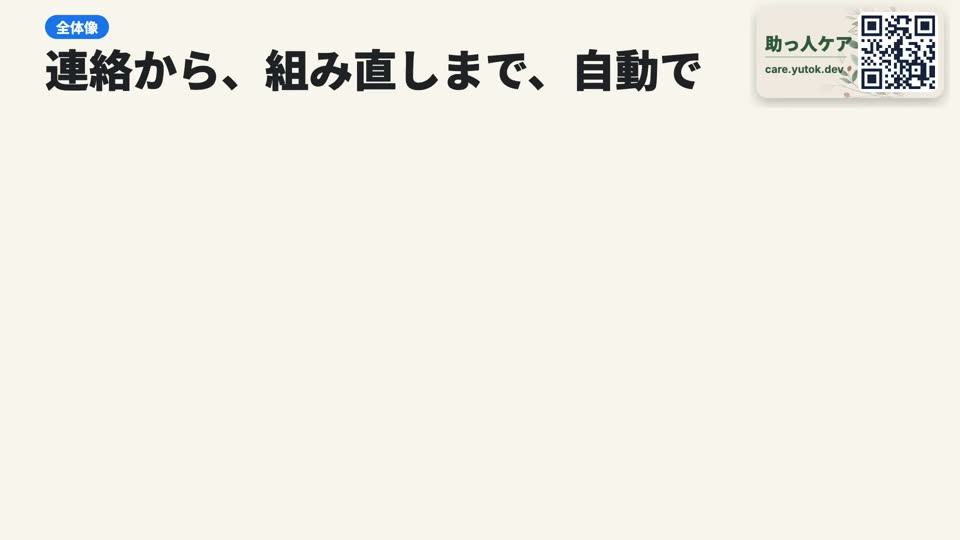
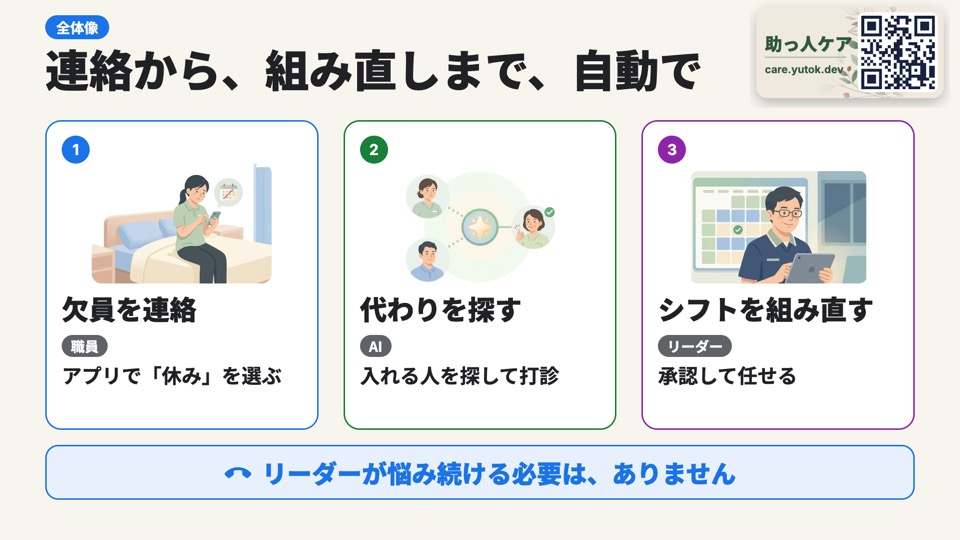
feat(sukettocare): 6枚目をクリックで段階表示に、19枚目に質疑スライド（主要6枚の PNG から飛んで ← で戻る）、20枚目に運用・監視、21枚目に詳しい構成図。15枚目から運用・監視を外す

diff --git a/sukettocare/index.html b/sukettocare/index.html
@@ -16,6 +16,15 @@
     opacity:0; transition:opacity .25s ease; background:#F7F5EE; pointer-events:none; }
   #stage .sl.on { opacity:1; }
   #stage .zoomwrap { overflow:hidden; background:#fff; }
+  #stage .hub { background:#F7F5EE; color:#202124; padding:80px 60px; }
+  #stage .hub.on { pointer-events:auto; cursor:default; }
+  #stage .hh { font-size:28px; color:#5F6368; margin-bottom:26px; }
+  #stage .hh span { display:inline-block; font-size:64px; font-weight:900; color:#202124; margin-right:28px; vertical-align:middle; }
+  #stage .hg { display:grid; grid-template-columns:repeat(4, 1fr); gap:56px 30px; margin-top:40px; }
+  #stage .hc { border:4px solid #DADCE0; border-radius:18px; background:#fff; padding:10px; cursor:pointer; font:inherit; text-align:left; transition:border-color .2s, transform .2s; }
+  #stage .hc:hover { border-color:#1A73E8; transform:translateY(-3px); }
+  #stage .hc img { display:block; width:100%; aspect-ratio:16/9; object-fit:cover; border-radius:10px; }
+  #stage .hc span { display:block; font-size:24px; font-weight:700; margin:10px 4px 4px; color:#202124; }
   #stage .zoomwrap img { position:absolute; left:0; top:0; width:100%; height:100%; object-fit:contain;
     transition:transform .35s ease; transform-origin:50% 50%; }
   #stage .zoomwrap.on { pointer-events:auto; cursor:zoom-in; }
@@ -84,6 +93,11 @@ const els = D.map((s) => {
   let el;
   if (kind(s) === 'html') {
     el = document.createElement('iframe'); el.src = s.src; el.setAttribute('scrolling', 'no'); el.tabIndex = -1;
+  } else if (kind(s) === 'hub') {
+    el = document.createElement('div'); el.className = 'hub';
+    el.innerHTML = `<div class="hh"><span>質疑対応</span>画像を押すとそのページへ。そこで ← を押すとここに戻ります。</div><div class="hg">` +
+      s.links.map((L, k) => `<button class="hc" data-k="${k}"><img src="${L.img}" alt=""><span>${L.label}</span></button>`).join('') + '</div>';
+    el.querySelectorAll('.hc').forEach((b) => b.addEventListener('click', (e) => { e.stopPropagation(); jump(+b.dataset.k); }));
   } else if (kind(s) === 'image') {
     el = document.createElement('div'); el.className = 'zoomwrap';
     el.innerHTML = `<span class="tag">予備</span><img src="${s.src}" alt="${s.title}">`;
@@ -96,7 +110,14 @@ const els = D.map((s) => {
   el.classList.add('sl'); stage.insertBefore(el, document.getElementById('black')); return el;
 });
 const vids = els; // 互換のため
-let i = 0, step = 0, startedAt = null, slideAt = null, presenter = null;
+let i = 0, step = 0, startedAt = null, slideAt = null, presenter = null, jumpFrom = null;
+const idx = (id) => D.findIndex((x) => x.id === id);
+// 質疑スライドから飛ぶ: 段階表示のページは最後（または指定）の段で、映像は最後の場面で止めて見せる
+function jump(k) {
+  const hub = i, L = D[hub].links[k], n = idx(L.id); if (n < 0) return;
+  show(n, false, true, L.step, true); jumpFrom = hub;
+  if (kind(D[n]) === 'video') { const v = els[n]; v.pause(); const end = () => { if (isFinite(v.duration)) v.currentTime = Math.max(0, v.duration - 0.3); }; if (v.readyState >= 1) end(); else v.addEventListener('loadedmetadata', end, { once: true }); }
+}
 function toggleZoom(el, e) {
   const img = el.querySelector('img');
   if (el.classList.toggle('zoomed')) {
@@ -126,14 +147,15 @@ function play(n) {
   v.playbackRate = D[n].rate;
 }
 const MAIN = D.filter((s) => !s.backup).length;
-function show(n, fromUser, atEnd) {
+function show(n, fromUser, atEnd, stepAt, noPlay) {
+  jumpFrom = null;
   n = Math.max(0, Math.min(D.length - 1, n));
   if (fromUser && startedAt === null && n > i) startTimer(false);
   els.forEach((v, k) => { if (k !== n) { v.classList.remove('on'); if (v.pause) v.pause(); } });
   const zw = els[n]; if (zw.classList.contains('zoomed')) toggleZoom(zw, null);
-  i = n; step = (atEnd && D[n].steps) ? D[n].lines.length - 1 : 0;
-  els[n].classList.add('on'); play(n); slideAt = Date.now();
-  document.getElementById('count').textContent = D[n].backup ? '予備' : (n + 1) + ' / ' + MAIN;
+  i = n; step = (atEnd && D[n].steps) ? (stepAt != null ? stepAt : D[n].lines.length - 1) : 0;
+  els[n].classList.add('on'); if (!noPlay || kind(D[n]) !== 'video') play(n); slideAt = Date.now();
+  document.getElementById('count').textContent = D[n].backup ? (kind(D[n]) === 'hub' ? '質疑' : '予備') : (n + 1) + ' / ' + MAIN;
   try { history.replaceState(null, '', '#' + (n + 1)); } catch (e) {}
   send();
 }
@@ -156,6 +178,7 @@ function act(k) {
       else show(i + 1, true);
       break;
     case 'prev':
+      if (jumpFrom !== null) { show(jumpFrom, false); break; }
       if (D[i].steps && step > 0) setStep(step - 1);
       else show(i - 1, true, true);
       break;
@@ -189,6 +212,7 @@ function onMsg(m, source) {
     lastPing = Date.now(); markConn(); if (m.type === 'hello') send();
   }
   if (m.type === 'act') act(m.act);
+  if (m.type === 'jump' && kind(D[i]) === 'hub') jump(m.k);
 }
 function markConn() {
   const c = document.getElementById('conn'); if (!c) return;

diff --git a/sukettocare/slides/ops.html b/sukettocare/slides/ops.html
@@ -1,0 +1,58 @@
+<!doctype html>
+<html lang="ja">
+<head>
+<meta charset="utf-8">
+<meta name="robots" content="noindex">
+<title>運用・監視</title>
+<link rel="stylesheet" href="ar-common.css">
+<style>
+  .eb { background:#5F6368; } .tt { font-size:76px; }
+  .col { position:absolute; top:250px; width:560px; height:600px; border:4px solid color-mix(in srgb, var(--c) 40%, #fff);
+    background:color-mix(in srgb, var(--c) 7%, #fff); border-radius:24px; padding:22px 24px; }
+  .col h2 { font-size:38px; font-weight:900; color:color-mix(in srgb, var(--c) 80%, #000); margin-bottom:4px; }
+  .col h2 small { font-size:22px; color:var(--mute); font-weight:700; margin-left:10px; }
+  .it { background:#fff; border:3px solid color-mix(in srgb, var(--c) 30%, #fff); border-radius:18px; padding:14px 18px; margin-top:16px; display:flex; gap:16px; align-items:flex-start; }
+  .it img { width:56px; height:56px; flex:none; }
+  .it b { display:block; font-size:28px; line-height:1.2; }
+  .it p { font-size:21px; line-height:1.45; color:var(--sub); margin-top:4px; }
+  .arrow { position:absolute; top:520px; font-size:56px; color:#3C4043; font-weight:900; }
+  .band { position:absolute; left:90px; top:880px; width:1740px; height:110px; border-radius:22px; background:#F1F3F4; border:4px solid #DADCE0;
+    display:flex; align-items:center; gap:28px; padding:0 28px; }
+  .band h3 { font-size:32px; font-weight:900; color:#3C4043; flex:none; }
+  .band div { font-size:23px; line-height:1.4; color:var(--sub); }
+  .band b { color:var(--ink); }
+</style>
+</head>
+<body>
+<div class="eb">予備</div>
+<div class="tt">運用・監視</div>
+<img class="badge" src="badge.png" alt="">
+
+<div class="col" style="--c:#1A73E8; left:90px">
+  <h2>作る<small>コードで管理</small></h2>
+  <div class="it"><img src="icons/iam.svg" alt=""><div><b>Terraform</b><p>インフラをコードで定義・適用<br>状態は Cloud Storage に保存</p></div></div>
+  <div class="it"><img src="icons/web.svg" alt=""><div><b>GitHub Actions</b><p>テスト → ビルド → デプロイ<br>WIF 連携で鍵ファイルなし</p></div></div>
+</div>
+
+
+<div class="col" style="--c:#188038; left:680px">
+  <h2>出す<small>確認してから公開</small></h2>
+  <div class="it"><img src="icons/run.svg" alt=""><div><b>Cloud Build</b><p>コンテナを作る</p></div></div>
+  <div class="it"><img src="icons/db.svg" alt=""><div><b>Artifact Registry</b><p>コンテナを保管</p></div></div>
+  <div class="it"><img src="icons/web.svg" alt=""><div><b>Cloud Run・Firebase Hosting</b><p>プレビューで確認してから公開</p></div></div>
+</div>
+<svg style="position:absolute;left:0;top:0;width:1920px;height:1080px;pointer-events:none"><polygon points="676,550 652,534 652,566" fill="#3C4043"/><polygon points="1266,550 1242,534 1242,566" fill="#3C4043"/></svg>
+
+<div class="col" style="--c:#E37400; left:1270px">
+  <h2>見守る<small>止まる前に気づく</small></h2>
+  <div class="it"><img src="icons/bq.svg" alt=""><div><b>Cloud Monitoring</b><p>稼働確認・稼働目標（可用性 99%）<br>アラート 10 種・ダッシュボード</p></div></div>
+  <div class="it"><img src="icons/tasks.svg" alt=""><div><b>Cloud Logging</b><p>ログ指標: ソルバーの混雑・AI の拒否・<br>個人情報マスクの失敗 など</p></div></div>
+  <div class="it"><img src="icons/vertex.svg" alt=""><div><b>AI の品質</b><p>別の Gemini が回答を採点して記録</p></div></div>
+</div>
+
+<div class="band">
+  <h3>守る</h3>
+  <div><b>IAM</b>　サービスごとに専用のサービスアカウント（最小権限）　／　<b>Cloud Storage</b>　学習済みモデルと成果物を保管　／　データは東京リージョン</div>
+</div>
+</body>
+</html>

diff --git a/sukettocare/slides/ov.html b/sukettocare/slides/ov.html
@@ -1,0 +1,14 @@
+<!doctype html><html lang="ja"><head><meta charset="utf-8"><link href="https://fonts.googleapis.com/css2?family=Noto+Sans+JP:wght@400;500;700;900&family=Inter:wght@700&display=swap" rel="stylesheet"><link href="fonts/ms.css" rel="stylesheet"><link rel="stylesheet" href="common.css"><script src="shift.js"></script><style>.ms{font-family:"Material Symbols Rounded";font-weight:normal;font-style:normal;font-size:44px;line-height:1;letter-spacing:normal;text-transform:none;display:inline-block;white-space:nowrap;font-feature-settings:"liga";vertical-align:middle}body{background:#F7F5EE}.eb{position:absolute;left:90px;top:30px;font-size:28px;font-weight:700;color:#fff;border-radius:999px;padding:4px 22px;font-family:"Noto Sans JP",Inter}.tt{position:absolute;left:90px;top:88px;font-size:88px;font-weight:900;line-height:1.1;white-space:nowrap;color:#202124}
+.row{position:absolute;left:90px;top:240px;width:1740px;display:flex;gap:50px}
+.cd{flex:1;background:#fff;border:3px solid;border-radius:32px;padding:28px 30px;height:620px;position:relative}
+.n{font-family:Inter;font-weight:700;font-size:30px;color:#fff;width:56px;height:56px;border-radius:50%;display:flex;align-items:center;justify-content:center}
+.il{display:flex;justify-content:center;margin:0 0 10px}.il svg{width:360px;height:240px}.who{display:inline-block;font-size:28px;font-weight:700;color:#fff;background:#5F6368;border-radius:999px;padding:2px 18px;margin-bottom:8px}
+.cd h3{font-size:54px;font-weight:900;margin-bottom:14px}
+.cd p{font-size:40px;line-height:1.4;color:#202124;font-weight:700}
+.band{position:absolute;left:90px;top:890px;width:1740px;height:110px;background:#E8F0FE;border:3px solid #1A73E8;border-radius:26px;display:flex;align-items:center;justify-content:center;gap:20px;font-size:50px;font-weight:900;color:#1A73E8}
+.band .ms{font-size:56px}</style></head><body><div class="eb rv" data-cue="0" style="background:#1A73E8">全体像</div><div class="tt rv" data-cue="0">連絡から、組み直しまで、自動で</div>
+<div class="row"><div class="cd rv" data-cue="1" style="border-color:#1A73E8"><div class="n" style="background:#1A73E8">1</div><div class="il"><img src="p1.jpg" style="width:360px;height:240px;border-radius:20px;object-fit:cover"></div><h3>欠員を連絡</h3><div class="who">職員</div><p>アプリで「休み」を選ぶ</p></div><div class="cd rv" data-cue="2" style="border-color:#188038"><div class="n" style="background:#188038">2</div><div class="il"><img src="p2.jpg" style="width:360px;height:240px;border-radius:20px;object-fit:cover"></div><h3>代わりを探す</h3><div class="who">AI</div><p>入れる人を探して打診</p></div><div class="cd rv" data-cue="3" style="border-color:#8E24AA"><div class="n" style="background:#8E24AA">3</div><div class="il"><img src="p3.jpg" style="width:360px;height:240px;border-radius:20px;object-fit:cover"></div><h3>シフトを組み直す</h3><div class="who">リーダー</div><p>承認して任せる</p></div></div>
+<div class="band rv" data-cue="4"><span class="ms">call_end</span>リーダーが悩み続ける必要は、ありません</div><script>window.go=(at)=>{at.forEach((s,i)=>setTimeout(()=>document.querySelectorAll('[data-cue="'+i+'"]').forEach(e=>e.classList.add('on')),Math.max(0,s*1000-250)))};</script><img src="badge.png" alt="" style="position:absolute;left:1500px;top:0;width:400px;height:215px;z-index:50">
+<script>window.STEPS=[[[0,0]],[[1,0]],[[2,0]],[[3,0],[4,1500]]];</script>
+<script src="stepper.js"></script>
+</body></html>

diff --git a/sukettocare/slides/ar-d.html b/sukettocare/slides/ar-d.html
@@ -7,7 +7,7 @@
 <link rel="stylesheet" href="ar-common.css">
 <style>
   .eb { top:18px; } .tt { top:70px; font-size:66px; }
-  .gc { position:absolute; left:285px; top:205px; width:1610px; height:740px; border:4px solid var(--gblue); border-radius:26px; background:#fff; }
+  .gc { position:absolute; left:285px; top:205px; width:1610px; height:632px; border:4px solid var(--gblue); border-radius:26px; background:#fff; }
   .gcl { position:absolute; left:315px; top:182px; background:var(--bg); padding:0 14px; font-size:30px; font-weight:700; color:var(--gblue); }
   .gcl span { font-size:22px; color:var(--blue); background:#E8F0FE; border-radius:999px; padding:2px 14px; margin-left:10px; vertical-align:middle; }
   .layer { border-width:4px; border-radius:22px; background:color-mix(in srgb, var(--c) 7%, #fff); border-color:color-mix(in srgb, var(--c) 40%, #fff); }
@@ -28,7 +28,7 @@
   .ops .ln { position:static; flex:none; margin-right:8px; }
   .chip { background:#fff; border:3px solid #DADCE0; border-radius:14px; padding:6px 14px; line-height:1.2; }
   .chip b { display:block; font-size:21px; } .chip small { display:block; font-size:16px; color:var(--mute); font-weight:500; }
-  .msg { top:962px; font-size:40px; }
+  .msg { top:880px; font-size:46px; }
   .dt img { width:46px; height:46px; } .dt b { font-size:22px; }
 </style>
 </head>
@@ -75,16 +75,6 @@
 <div class="svc tile dt" data-s="bq" style="--c:#00796B; left:1302px; top:596px; width:175px; height:150px"><div class="num">4</div><img src="icons/bq.svg" alt=""><b>BigQuery</b><small>記録を貯める<br>欠員を予測（ML）</small></div>
 <div class="svc tile dt" data-s="pipe" style="--c:#00796B; left:1491px; top:596px; width:175px; height:150px"><div class="num">4</div><img src="icons/vertex.svg" alt=""><b>Vertex AI Pipelines</b><small>施設ごとに学習</small></div>
 <div class="svc tile dt" data-s="rules" style="--c:#00796B; left:1680px; top:596px; width:175px; height:150px"><img src="icons/bq.svg" alt=""><b>ルール候補</b><small>手修正のくり返し<br>から提案</small></div>
-
-<!-- 運用・監視 -->
-<div class="layer ops" style="--c:#5F6368; left:305px; top:828px; width:1570px; height:100px" data-has="ops">
-  <div class="ln">運用・監視</div>
-  <div class="chip"><b>Cloud Monitoring</b><small>稼働目標・アラート</small></div>
-  <div class="chip"><b>Cloud Logging</b><small>ログとログ指標</small></div>
-  <div class="chip"><b>Artifact Registry</b><small>コンテナを保管</small></div>
-  <div class="chip"><b>Cloud Storage</b><small>学習済みモデル</small></div>
-  <div class="chip"><b>Terraform</b><small>インフラをコードで管理</small></div>
-</div>
 
 <svg class="l">
   <path class="k" d="M278 410 H306"/><polygon class="k" points="264,410 282,399 282,421"/><polygon class="k" points="321,410 303,399 303,421"/>

diff --git a/sukettocare/presenter.html b/sukettocare/presenter.html
@@ -35,6 +35,9 @@
   footer { padding:10px 24px; border-top:1px solid var(--line); font-size:13px; color:var(--sub); display:flex; gap:18px; flex-wrap:wrap; align-items:center; }
   footer button { background:var(--panel); color:var(--ink); border:1px solid var(--line); border-radius:8px; padding:8px 14px; font:inherit; font-size:14px; cursor:pointer; }
   #warn { color:var(--bad); }
+  .jumps { display:grid; grid-template-columns:repeat(2, 1fr); gap:10px; margin-top:14px; }
+  .jumps button { font:inherit; font-size:20px; text-align:left; padding:12px 14px; border-radius:10px; border:1px solid var(--line); background:var(--panel); color:var(--ink); cursor:pointer; }
+  .jumps button:hover { border-color:#8ab4f8; }
   #setup { position:fixed; inset:0; background:rgba(10,12,16,.88); display:flex; align-items:center; justify-content:center; padding:16px; z-index:5; }
   #setup[hidden] { display:none; }
   #setup .box { background:var(--panel); border:1px solid var(--line); border-radius:16px; padding:28px 32px; max-width:640px; width:100%; line-height:1.7; }
@@ -93,6 +96,8 @@ function renderSlide() {
   const s = D[st.i], n = D[st.i + 1];
   $('title').innerHTML = s.backup ? `<b>予備　${s.title}</b>　時間外（質疑用）` : `<b>${st.i + 1} / ${MAIN}　${s.title}</b>　目安 ${s.target} 秒（ここまでで ${fmt(s.cumEnd)}）` + (s.steps ? '　<span style="color:#ffd666">→ で次のまとまりへ</span>' : '');
   $('lines').innerHTML = s.lines.map((l, k) => `<div class="line" data-k="${k}">${l}</div>`).join('');
+  if (s.links) $('lines').innerHTML += '<div class="jumps">' + s.links.map((L, k) => `<button data-k="${k}">${L.label}</button>`).join('') + '</div>';
+  document.querySelectorAll('.jumps button').forEach((b) => b.addEventListener('click', () => post({ type: 'jump', k: +b.dataset.k })));
   $('curImg').src = 'media/' + s.id + '.jpg';
   $('curCap').innerHTML = '<b>いま</b>　' + s.title;
   if (n) { $('nextImg').src = 'media/' + n.id + '.jpg'; $('nextImg').style.visibility = 'visible';
@@ -133,8 +138,8 @@ function onState(m) { m = m || {}; if (m.type === 'state') { st = m; skew = m.no
 addEventListener('message', (e) => onState(e.data));
 let bc = null; try { bc = new BroadcastChannel('sukettocare-deck'); bc.onmessage = (e) => onState(e.data); } catch (e) {}
 let deckWin = null;
-function act(a) {
-  const m = { type: 'act', act: a };
+function act(a) { post({ type: 'act', act: a }); }
+function post(m) {
   if (deckWin && !deckWin.closed) deckWin.postMessage(m, '*');
   else if (window.opener && !window.opener.closed) window.opener.postMessage(m, '*');
   else if (bc) bc.postMessage(m);

diff --git a/sukettocare/data.js b/sukettocare/data.js
@@ -99,8 +99,10 @@ window.DECK=[
    11.1,
    15.0
   ],
-  "rate": 1.18,
-  "cumEnd": 63.2
+  "cumEnd": 63.2,
+  "kind": "html",
+  "src": "slides/ov.html",
+  "steps": true
  },
  {
   "id": "d02",
@@ -319,13 +321,85 @@ window.DECK=[
   "cumEnd": 234.8
  },
  {
+  "id": "qa",
+  "title": "質疑対応",
+  "kind": "hub",
+  "backup": true,
+  "lines": [
+   "質問に合わせて画像を押す（発表者画面のボタンでも飛べる）。飛んだ先で ← を押すと、ここに戻る。"
+  ],
+  "links": [
+   {
+    "id": "pz",
+    "step": 3,
+    "img": "png/05_シフトは解けないパズル.png",
+    "label": "5. シフトは、解けないパズル"
+   },
+   {
+    "id": "ov",
+    "img": "png/06_連絡から組み直しまで自動で.png",
+    "label": "6. 連絡から組み直しまで"
+   },
+   {
+    "id": "d04",
+    "img": "png/09_AIが順に打診.png",
+    "label": "9. AI が順に打診"
+   },
+   {
+    "id": "sv1",
+    "img": "png/12_条件を満たすシフトを自動で.png",
+    "label": "12. 条件を満たすシフトを、自動で"
+   },
+   {
+    "id": "sv4",
+    "img": "png/14_足りない時間を埋める.png",
+    "label": "14. 足りない時間を埋める"
+   },
+   {
+    "id": "ar",
+    "img": "png/15_GoogleCloudで動く仕組み.png",
+    "label": "15. Google Cloud で動く仕組み"
+   },
+   {
+    "id": "ops",
+    "img": "png/20_運用と監視.png",
+    "label": "20. 運用・監視"
+   },
+   {
+    "id": "arch-full",
+    "img": "media/arch-full.jpg",
+    "label": "21. 詳しい構成図"
+   }
+  ],
+  "target": 0,
+  "cumEnd": 234.8,
+  "lineStart": [
+   0
+  ]
+ },
+ {
+  "id": "ops",
+  "title": "予備: 運用・監視",
+  "kind": "html",
+  "src": "slides/ops.html",
+  "backup": true,
+  "lines": [
+   "作る（Terraform・GitHub Actions）→ 出す（Cloud Build・Artifact Registry・プレビュー）→ 見守る（Cloud Monitoring・Cloud Logging・AI の品質）。守るは IAM の最小権限。"
+  ],
+  "target": 0,
+  "cumEnd": 234.8,
+  "lineStart": [
+   0
+  ]
+ },
+ {
   "id": "arch-full",
   "title": "予備: 詳しい構成図",
   "kind": "image",
   "src": "media/arch-full.png",
   "backup": true,
   "lines": [
-   "（質疑で構成を聞かれたときだけ出す。クリックした所を拡大、もう一度クリックで戻る）"
+   "（クリックした所を拡大、もう一度クリックで戻る）"
   ],
   "target": 0,
   "cumEnd": 234.8,

diff --git a/sukettocare/原稿.md b/sukettocare/原稿.md
@@ -102,6 +102,14 @@
 - あの夜を、終わらせたい。電話をかけ続ける人を、もう、ひとりにしない。助っ人ケアが、その仕事を引き受けます。
 - ご覧いただき、ありがとうございました。
 
-## 19. 予備: 詳しい構成図（予備・時間外）
+## 19. 質疑対応（予備・時間外）
 
-- （質疑で構成を聞かれたときだけ出す。クリックした所を拡大、もう一度クリックで戻る）
+- 質問に合わせて画像を押す（発表者画面のボタンでも飛べる）。飛んだ先で ← を押すと、ここに戻る。
+
+## 20. 予備: 運用・監視（予備・時間外）
+
+- 作る（Terraform・GitHub Actions）→ 出す（Cloud Build・Artifact Registry・プレビュー）→ 見守る（Cloud Monitoring・Cloud Logging・AI の品質）。守るは IAM の最小権限。
+
+## 21. 予備: 詳しい構成図（予備・時間外）
+
+- （クリックした所を拡大、もう一度クリックで戻る）
